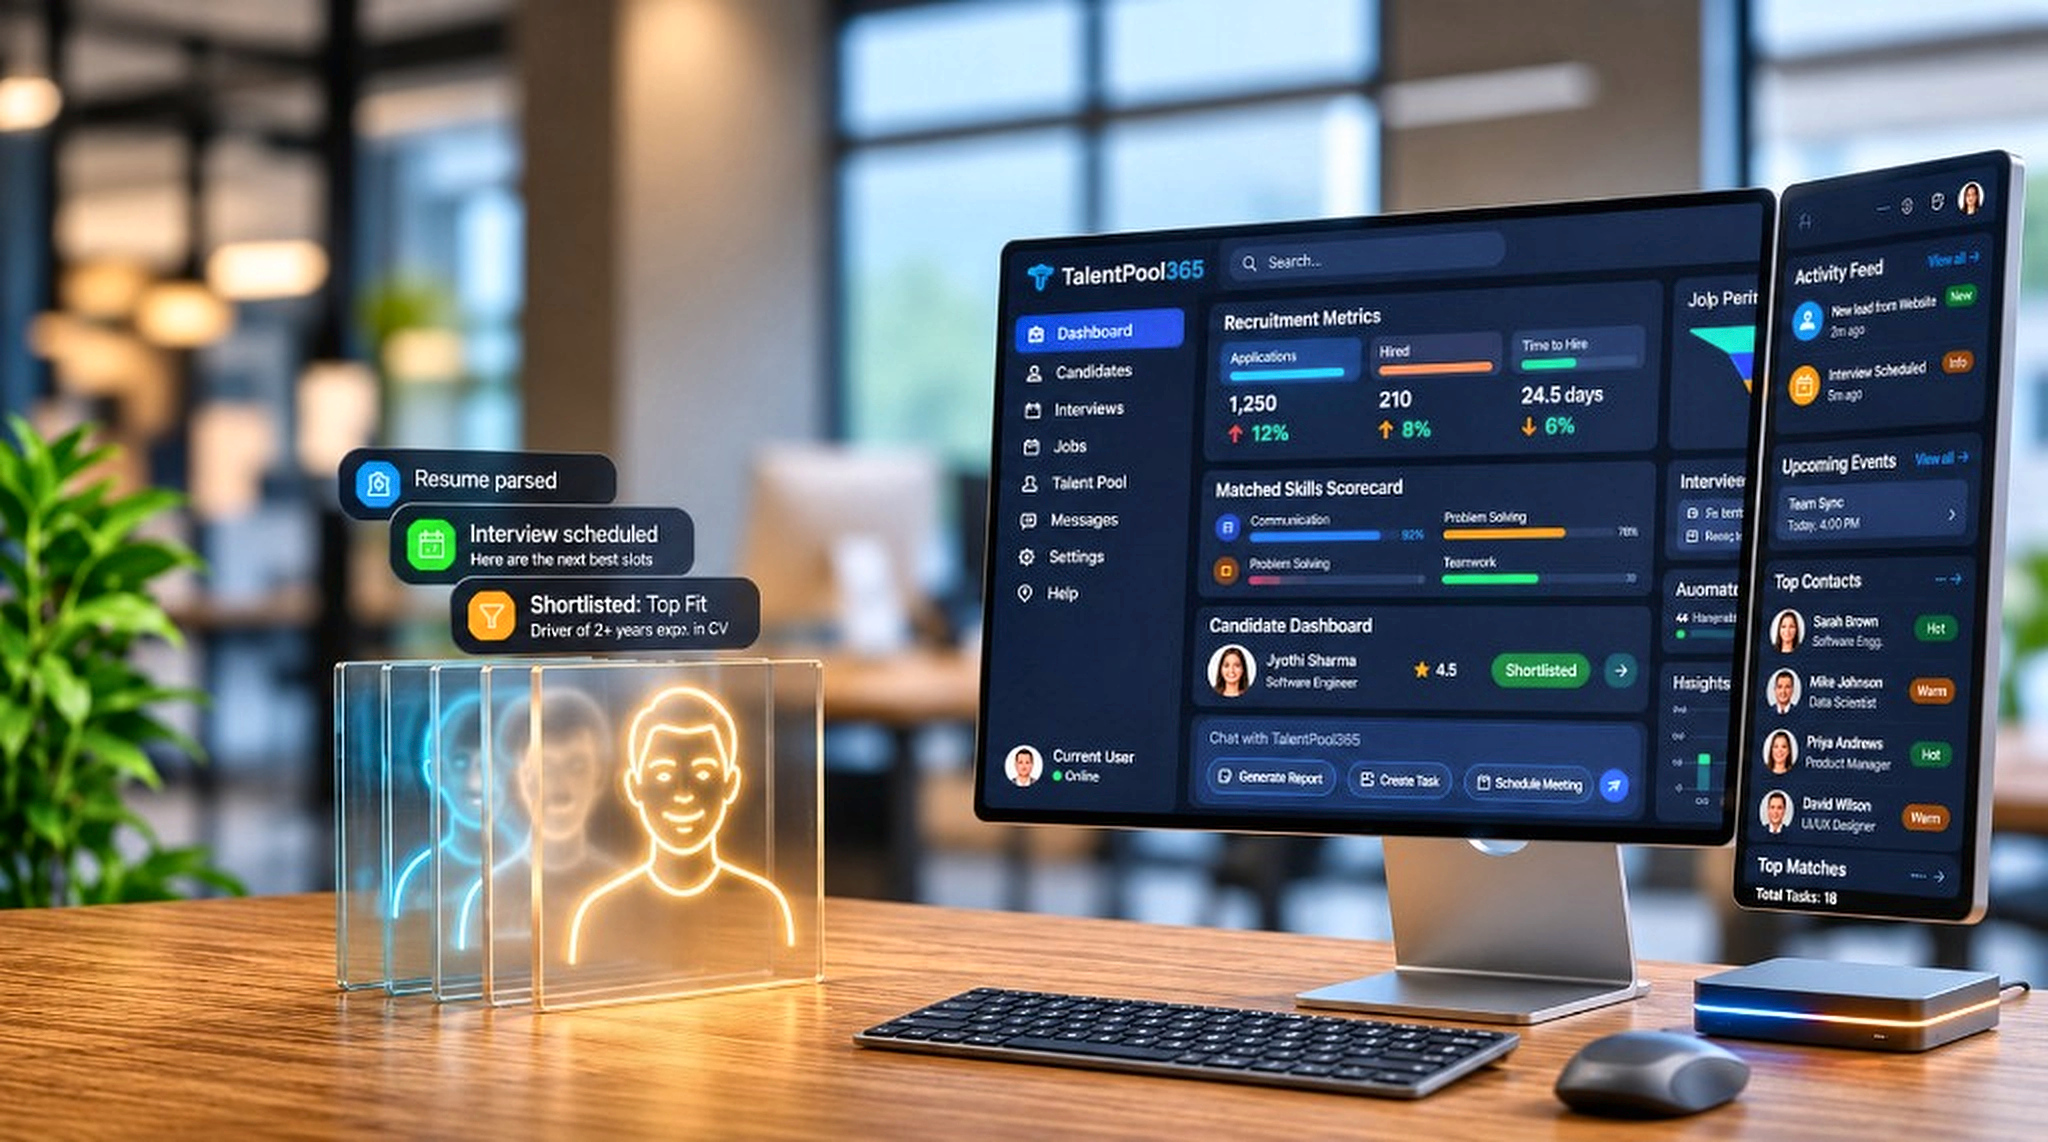
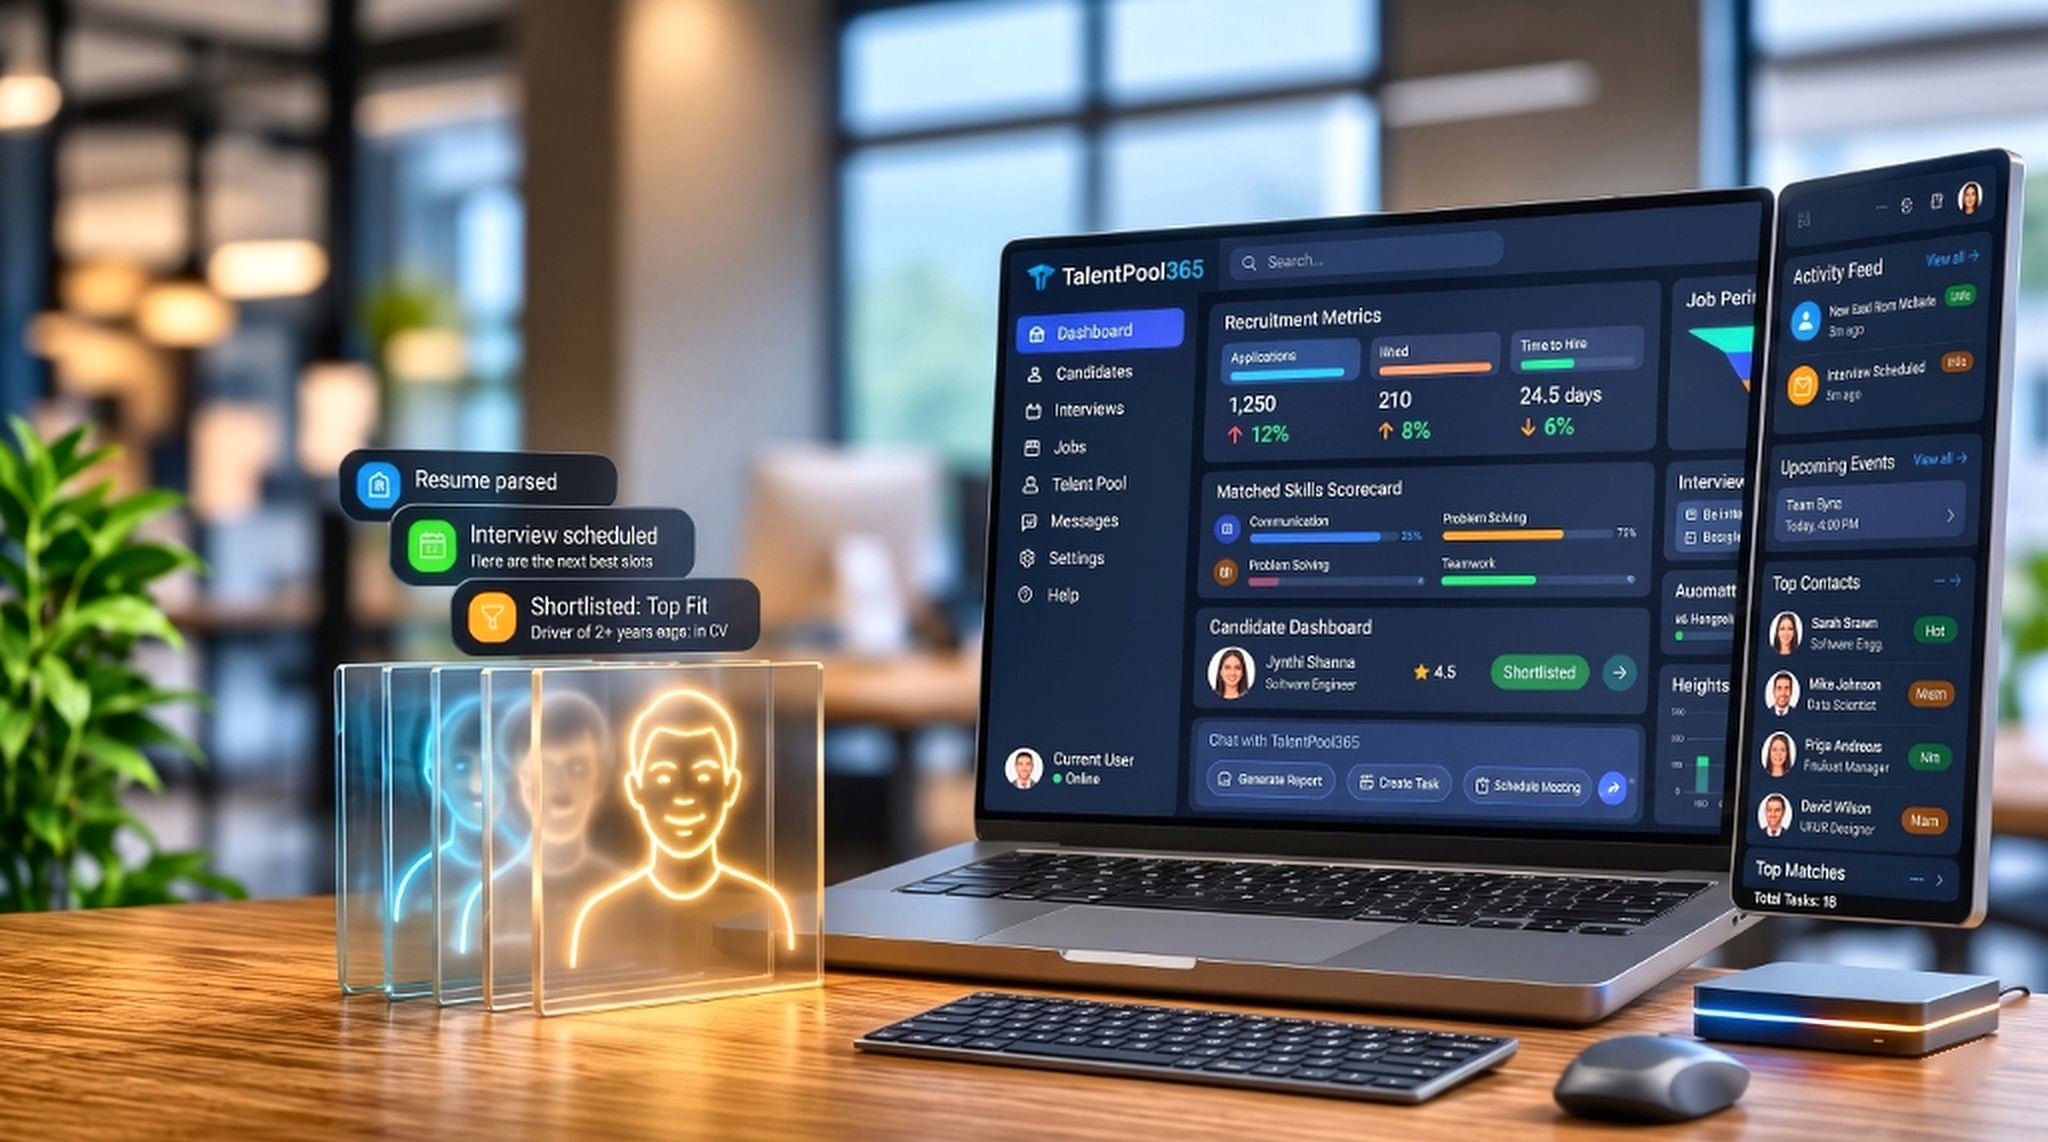
Update hero background image and centered hero layout

diff --git a/src/styles/global.css b/src/styles/global.css
@@ -1421,16 +1421,14 @@ section[id], footer[id] { scroll-margin-top: calc(var(--header-h) + 12px); }
 
 
 /* =============================================================
-   SPLIT HERO WITH ZOOMED-OUT COMPLETE HD WORKSPACE IMAGE
+   FULL-BACKGROUND HERO WITH CLEAR HD IMAGE & UPPER-LEFT COPY
    ============================================================= */
 .hero.hero--centered {
   position: relative;
-  background:
-    radial-gradient(720px 460px at 82% 20%, rgba(52, 211, 153, 0.16), transparent 65%),
-    linear-gradient(125deg, #092623 0%, #123F3B 54%, #0d2b28 100%);
+  background: #111315;
   margin-top: 0;
   width: 100%;
-  padding-block: clamp(18px, 2.4vw, 36px) !important;
+  padding: 0 !important;
   overflow: clip;
 }
 
@@ -1439,47 +1437,72 @@ section[id], footer[id] { scroll-margin-top: calc(var(--header-h) + 12px); }
   display: none;
 }
 
-.hero--centered .hero-split {
+.hero--centered .hero-bg {
   position: relative;
-  z-index: 2;
-  max-width: 1460px;
-  display: grid;
-  grid-template-columns: minmax(0, 0.86fr) minmax(0, 1.44fr);
+  display: block;
+  width: 100%;
+  height: auto;
+  transform: none;
+  pointer-events: none;
+  user-select: none;
+}
+
+.hero--centered .hero-atmosphere {
+  position: absolute;
+  inset: 0;
+  background: radial-gradient(56% 44% at 50% 34%, rgba(8, 12, 18, 0.56) 0%, rgba(8, 12, 18, 0.22) 62%, transparent 100%);
+  pointer-events: none;
+  z-index: 1;
+}
+
+.hero--centered .container {
+  position: absolute;
+  inset: 0;
+  max-width: 1400px;
+  display: flex;
+  flex-direction: column;
+  justify-content: flex-start;
   align-items: center;
-  gap: clamp(20px, 2.5vw, 38px);
+  padding-top: clamp(72px, 10vw, 140px);
+  padding-bottom: clamp(32px, 4vw, 56px);
+  z-index: 2;
 }
 
 .hero.hero--centered .hero-centered-copy {
   position: relative;
   z-index: 2;
-  text-align: left;
-  max-width: 100%;
-  margin: 0;
+  text-align: center;
+  max-width: 1100px;
+  margin: 0 auto;
 }
 
 .hero.hero--centered .hero-centered-copy h1 {
-  font-size: clamp(1.9rem, 2.8vw, 3.05rem);
+  font-size: clamp(1.95rem, 3.1vw, 3rem);
   font-weight: 700;
   line-height: 1.08;
-  letter-spacing: -0.01em;
+  letter-spacing: -0.015em;
   text-transform: uppercase;
   color: #ffffff;
-  text-shadow: 0 4px 24px rgba(0, 0, 0, 0.4);
-  margin: 0 0 18px;
+  text-shadow: 0 4px 28px rgba(0, 0, 0, 0.65);
+  margin: 0;
 }
 
 .hero.hero--centered .hero-centered-lede {
-  font-size: clamp(1rem, 1.18vw, 1.16rem);
-  line-height: 1.5;
-  color: rgba(255, 255, 255, 0.86);
-  max-width: 44ch;
-  margin: 0 0 28px;
+  font-size: clamp(0.98rem, 1.25vw, 1.22rem);
+  font-weight: 400;
+  line-height: 1.48;
+  color: rgba(255, 255, 255, 0.94);
+  max-width: 560px;
+  margin: clamp(28px, 3.8vw, 56px) auto 24px;
+  text-shadow: 0 2px 18px rgba(0, 0, 0, 0.8);
 }
 
 .hero.hero--centered .hero-centered-ctas {
+  position: relative;
+  z-index: 2;
   display: flex;
   align-items: center;
-  justify-content: flex-start;
+  justify-content: center;
   gap: 14px;
   flex-wrap: wrap;
   margin-bottom: 0;
@@ -1490,15 +1513,15 @@ section[id], footer[id] { scroll-margin-top: calc(var(--header-h) + 12px); }
   align-items: center;
   justify-content: center;
   gap: 8px;
-  min-height: 48px;
-  padding: 12px 26px;
+  min-height: 46px;
+  padding: 11px 24px;
   border-radius: 9999px;
   background: #ffffff;
   color: #0B1917 !important;
   font-weight: 700;
   font-size: 0.95rem;
   text-decoration: none;
-  box-shadow: 0 12px 30px -6px rgba(0, 0, 0, 0.45);
+  box-shadow: 0 14px 32px -6px rgba(0, 0, 0, 0.45);
   transition: transform 0.2s ease, box-shadow 0.2s ease, background 0.2s ease;
 }
 
@@ -1506,7 +1529,13 @@ section[id], footer[id] { scroll-margin-top: calc(var(--header-h) + 12px); }
   transform: translateY(-2px);
   background: #ecfdf5;
   color: #0B1917 !important;
-  box-shadow: 0 16px 36px -6px rgba(0, 0, 0, 0.55);
+  box-shadow: 0 18px 38px -6px rgba(0, 0, 0, 0.55);
+}
+
+.hero--centered a.btn-hero-solid svg,
+.hero--centered a.btn-hero-glass svg {
+  width: 16px;
+  height: 16px;
 }
 
 .hero--centered a.btn-hero-glass {
@@ -1514,69 +1543,52 @@ section[id], footer[id] { scroll-margin-top: calc(var(--header-h) + 12px); }
   align-items: center;
   justify-content: center;
   gap: 8px;
-  min-height: 48px;
-  padding: 12px 26px;
+  min-height: 46px;
+  padding: 11px 24px;
   border-radius: 9999px;
-  background: rgba(15, 18, 24, 0.48);
-  border: 1px solid rgba(255, 255, 255, 0.36);
+  background: rgba(15, 18, 24, 0.58);
+  backdrop-filter: blur(12px);
+  border: 1px solid rgba(255, 255, 255, 0.42);
   color: #ffffff !important;
   font-weight: 600;
   font-size: 0.95rem;
   text-decoration: none;
+  box-shadow: 0 14px 32px -6px rgba(0, 0, 0, 0.45);
   transition: transform 0.2s ease, background 0.2s ease;
 }
 
 .hero--centered a.btn-hero-glass:hover {
   transform: translateY(-2px);
-  background: rgba(15, 18, 24, 0.72);
+  background: rgba(15, 18, 24, 0.78);
   color: #ffffff !important;
 }
 
-.hero--centered a.btn-hero-glass svg {
-  width: 16px;
-  height: 16px;
-}
-
-.hero-media-frame {
-  width: fit-content;
-  max-width: 100%;
-  justify-self: end;
-  border-radius: 18px;
-  overflow: hidden;
-  border: 1px solid rgba(255, 255, 255, 0.16);
-  box-shadow: 0 28px 64px -18px rgba(0, 0, 0, 0.6);
-}
-
-.hero-media-frame .hero-bg {
-  position: relative;
-  display: block;
-  width: auto;
-  max-width: 100%;
-  max-height: calc(100svh - var(--header-h) - 36px);
-  height: auto;
-  transform: none;
-}
-
 @media (max-width: 900px) {
-  .hero--centered .hero-split {
-    grid-template-columns: 1fr;
+  .hero.hero--centered {
+    min-height: 540px;
+  }
+  .hero--centered .hero-bg {
+    position: absolute;
+    inset: 0;
+    width: 100%;
+    height: 100%;
+    object-fit: cover;
+  }
+  .hero--centered .container {
+    position: relative;
+    align-items: center;
     gap: 28px;
+    padding-block: 48px 56px;
   }
   .hero.hero--centered .hero-centered-copy {
+    max-width: 100%;
     text-align: center;
   }
   .hero.hero--centered .hero-centered-lede {
-    margin-inline: auto;
+    margin: 14px auto 24px;
   }
   .hero.hero--centered .hero-centered-ctas {
     justify-content: center;
-  }
-  .hero-media-frame {
-    justify-self: center;
-  }
-  .hero-media-frame .hero-bg {
-    max-height: none;
-    width: 100%;
   }
 }
 

diff --git a/src/components/Hero.tsx b/src/components/Hero.tsx
@@ -25,7 +25,19 @@ export function Hero() {
 
   return (
     <section className="hero hero--centered on-dark" id="home" ref={sectionRef}>
-      <div className="container hero-split">
+      <img
+        className="hero-bg"
+        src="/assets/hero-aurevia-bg.jpg"
+        alt=""
+        width={2048}
+        height={1142}
+        decoding="sync"
+        fetchPriority="high"
+        aria-hidden="true"
+      />
+      <span className="hero-atmosphere" aria-hidden="true" />
+
+      <div className="container">
         <div className="hero-centered-copy">
           <h1 className="enter" style={enterDelay(0)}>
             <span className="sr-only">The intelligent platform for modern recruiting teams.</span>
@@ -42,31 +54,20 @@ export function Hero() {
           </h1>
 
           <p className="hero-centered-lede enter" style={enterDelay(1)}>
-            Source candidates, automate screening, and make smarter hiring decisions — all from one
-            connected AI platform.
+            Connect talent, automate workflows, and make informed decisions faster with
+            TalentPool365.
           </p>
 
           <div className="hero-centered-ctas enter" style={enterDelay(2)}>
             <a className="btn btn-hero-solid" href="/get-started">
-              Get Started For Free
+              Start Free Trial
+              <Icon name="arrow-right" className="icon" />
             </a>
-            <a className="btn btn-hero-glass" href="#demo">
-              <Icon name="play" className="icon" />
-              Watch 30-sec tour
+            <a className="btn btn-hero-glass" href="#contact">
+              Book a Demo
+              <Icon name="arrow-right" className="icon" />
             </a>
           </div>
-        </div>
-
-        <div className="hero-media-frame enter" style={enterDelay(1, 100)}>
-          <img
-            className="hero-bg"
-            src="/assets/hero-aurevia-bg.jpg"
-            alt="TalentPool365 intelligent hiring workspace"
-            width={2048}
-            height={1142}
-            decoding="sync"
-            fetchPriority="high"
-          />
         </div>
       </div>
     </section>
